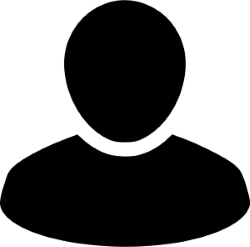
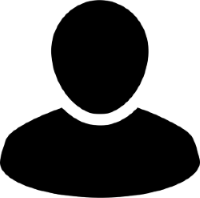
photo

diff --git a/src/lib/components/MainProfile/Profile.svelte b/src/lib/components/MainProfile/Profile.svelte
@@ -234,7 +234,8 @@
 		top: 90px;
 		margin-left: 100px;
 		background-image: url('/man.png');
-		background-size: cover;
+		background-repeat: no-repeat;
+		background-position:5ch;
 	}
 	.changes {
 		display: flex;
